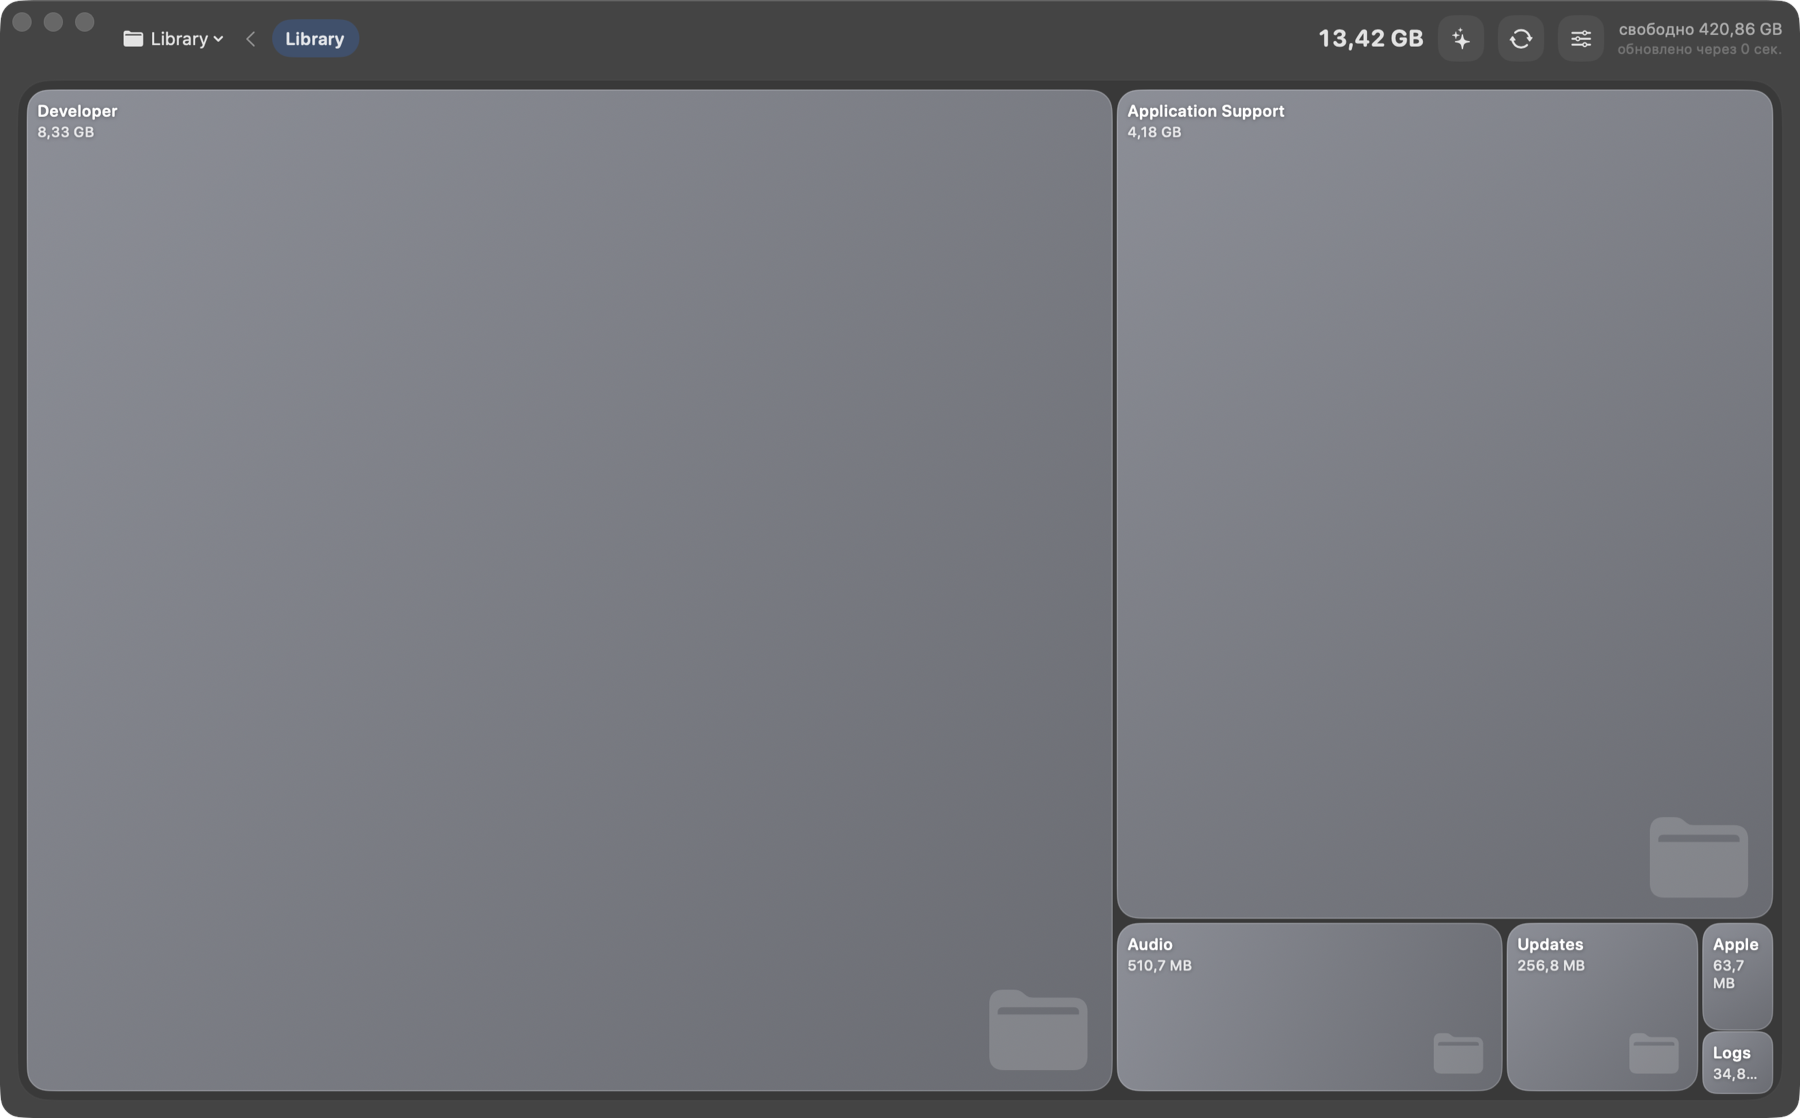
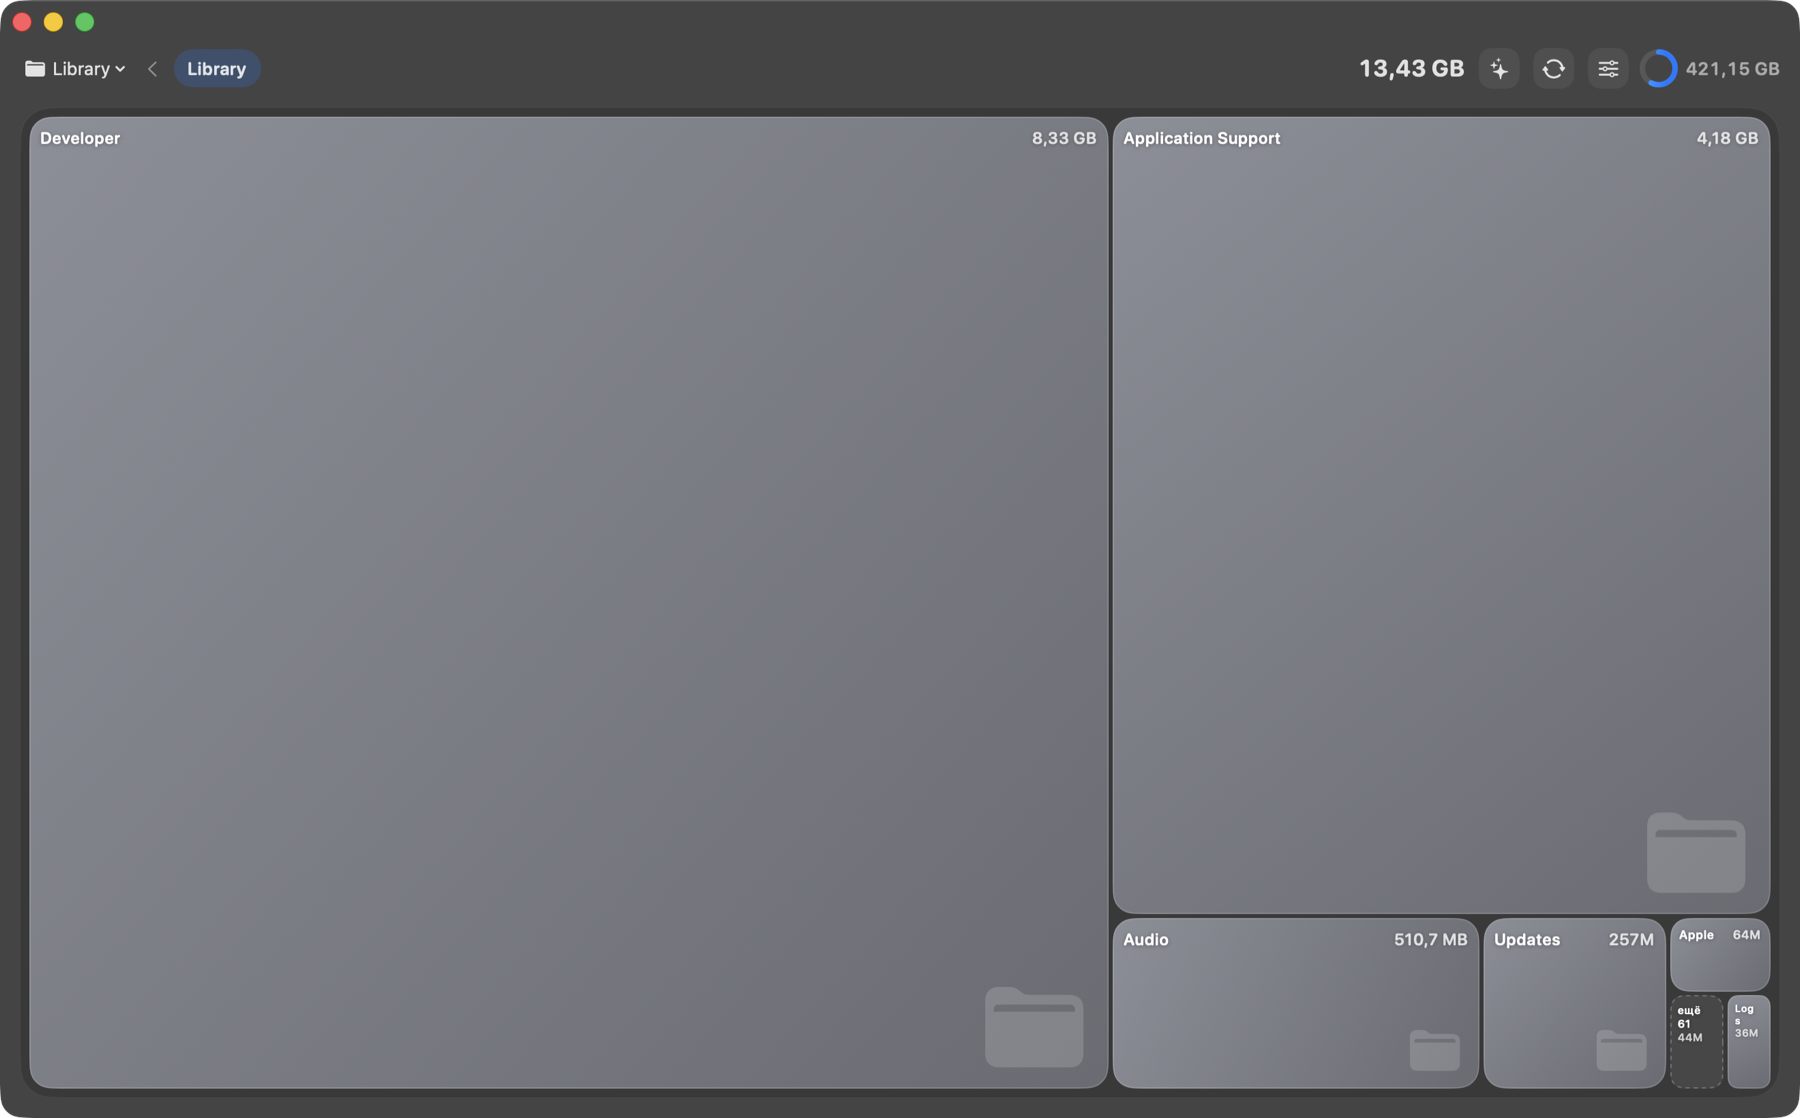
Обновлены скриншоты, скрипт screenshots.sh и правила работы (CLAUDE.md)

Changed region(s): [[0.0, 0.0, 0.9956, 1.0], [0.0, 0.0, 0.0622, 0.0304], [0.0311, 0.9732, 0.0622, 1.0]]

diff --git a/tools/wid.swift b/tools/wid.swift
@@ -1,0 +1,7 @@
+import CoreGraphics
+// Печатает номер окна Space Lens (для screencapture -l).
+let l = CGWindowListCopyWindowInfo([.optionAll], kCGNullWindowID) as! [[String: Any]]
+for w in l where (w[kCGWindowOwnerName as String] as? String) == "Space Lens" && (w[kCGWindowLayer as String] as? Int) == 0 {
+  let b = w[kCGWindowBounds as String] as! [String: Any]
+  if (b["Width"] as? Double ?? 0) > 300 && (b["Height"] as? Double ?? 0) > 300 { print(w[kCGWindowNumber as String]!); break }
+}

diff --git a/CLAUDE.md b/CLAUDE.md
@@ -1,0 +1,6 @@
+# Space Lens — правила работы
+
+- Каждое изменение: собрать и поставить на этот Mac (`./build.sh install`), закоммитить и запушить в GitHub.
+- **Если менялся вид интерфейса — обновить скриншоты** (`./screenshots.sh`) и закоммитить `docs/*.png` в том же коммите. Если изменилась функциональность — поправить README.
+- Релиз: поднять версию в `Resources/Info.plist`, `./release.sh`, затем `gh release create vX.Y dist/SpaceLens-X.Y.dmg`.
+- Скриншоты снимать только на системных папках (`/Applications`, `/Library`): личные данные в публичный репозиторий не попадают.
